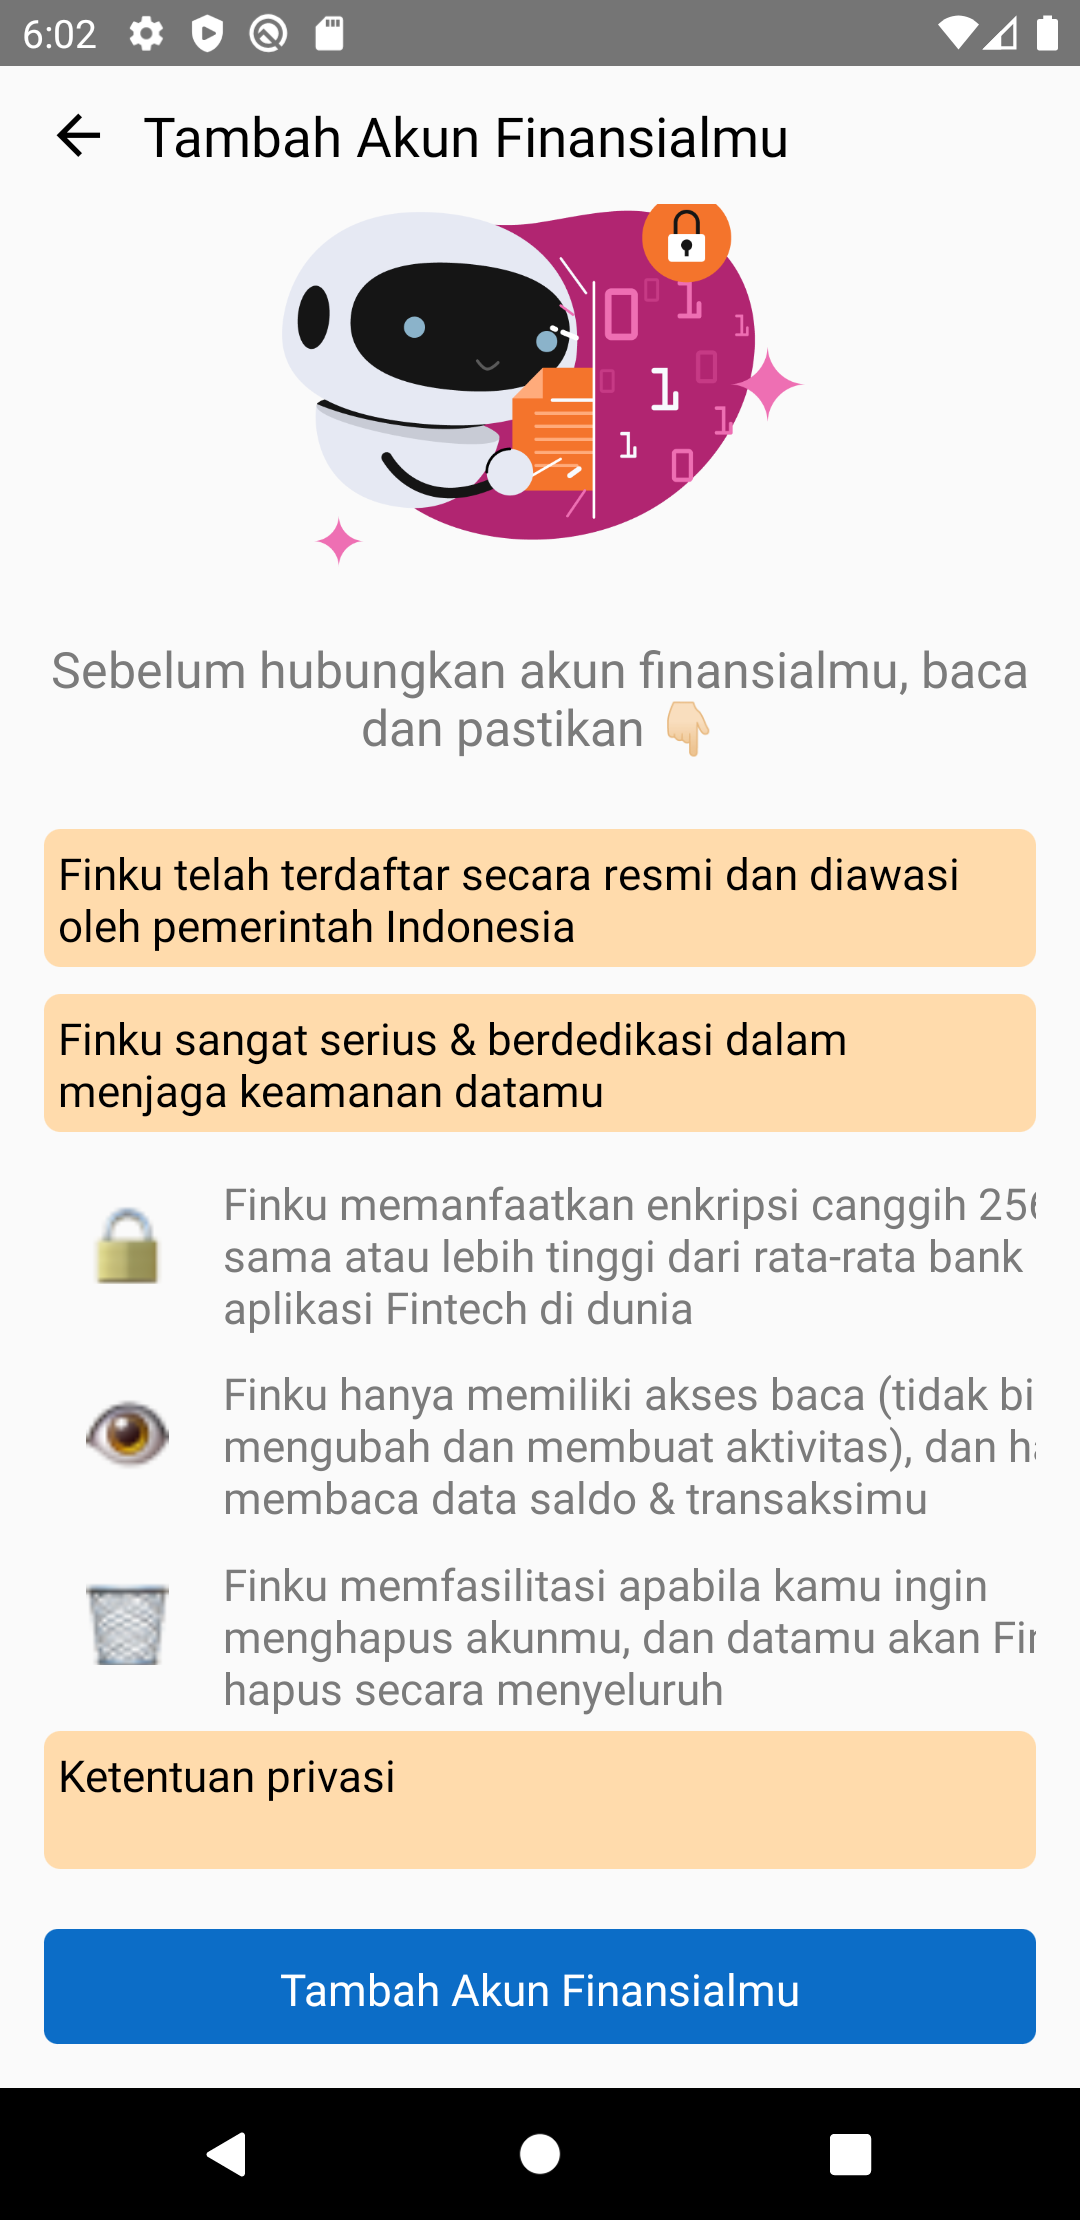
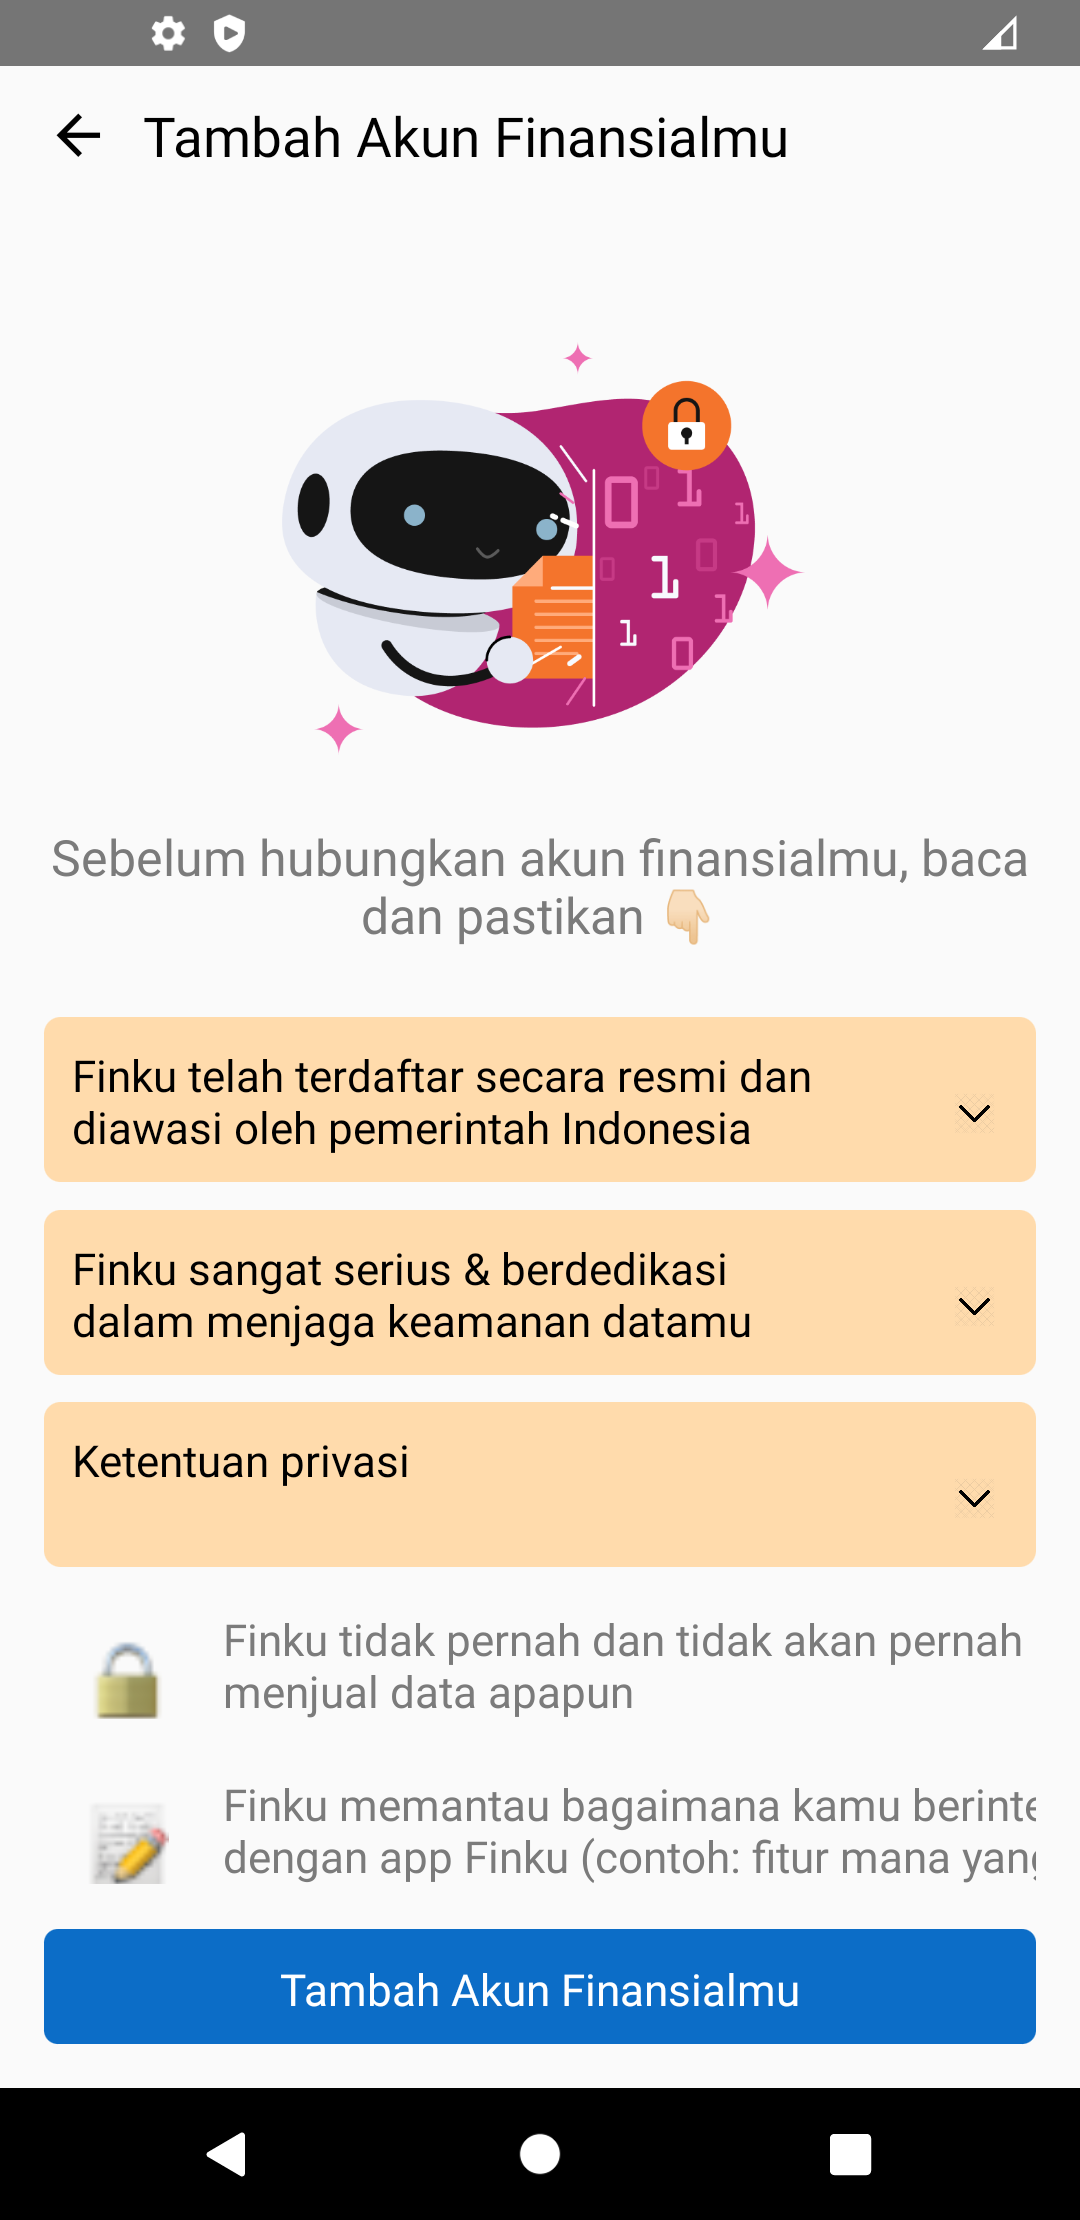
add accordion arrow

diff --git a/App.js b/App.js
@@ -19,6 +19,7 @@ import {
   Button,
   TouchableHighlight,
   Image,
+  Dimensions
 } from 'react-native';
 
 import Accordion from 'react-native-collapsible/Accordion';
@@ -31,15 +32,15 @@ const SECTIONS = [
     content: [
       {
         info: 'Finku terdaftar di bawah KOMINFO yang memiliki SOP & pengaturan keamanan data yang ketat',
-        image: require('./src/img/1.png')
+        image: require('./src/img/1.png'),
       },
       {
         info: 'Finku sudah secara resmi terdaftar sebagai PT',
-        image: require('./src/img/2.png')
+        image: require('./src/img/2.png'),
       },
       {
         info: 'Finku dikembangkan oleh tim dari Indonesia yang sudah mempelajari berbagai regulasi terkait keamanan data & privasi',
-        image: require('./src/img/3.png')
+        image: require('./src/img/3.png'),
       },
     ],
   },
@@ -48,15 +49,15 @@ const SECTIONS = [
     content: [
       {
         info: 'Finku memanfaatkan enkripsi canggih 256-AES, sama atau lebih tinggi dari rata-rata bank dan aplikasi Fintech di dunia',
-        image: require('./src/img/4.png')
+        image: require('./src/img/4.png'),
       },
       {
         info: 'Finku hanya memiliki akses baca (tidak bisa mengubah dan membuat aktivitas), dan hanya membaca data saldo & transaksimu',
-        image: require('./src/img/5.png')
+        image: require('./src/img/5.png'),
       },
       {
         info: 'Finku memfasilitasi apabila kamu ingin menghapus akunmu, dan datamu akan Finku hapus secara menyeluruh',
-        image: require('./src/img/6.png')
+        image: require('./src/img/6.png'),
       },
     ],
   },
@@ -65,20 +66,20 @@ const SECTIONS = [
     content: [
       {
         info: 'Finku tidak pernah dan tidak akan pernah menjual data apapun',
-        image: require('./src/img/7.png')
+        image: require('./src/img/7.png'),
       },
       {
         info: 'Finku memantau bagaimana kamu berinteraksi dengan app Finku (contoh: fitur mana yang kamu pakai dan tidak) untuk keperluan evaluasi & meningkatkan kepuasan kamu',
-        image: require('./src/img/8.png')
+        image: require('./src/img/8.png'),
       },
       {
         info: 'Finku tidak pernah dan tidak akan pernah memberikan datamu ke perusahaan manapun tanpa izin kamu',
-        image: require('./src/img/9.png')
+        image: require('./src/img/9.png'),
       },
       {
         info: 'Selengkapnya tentang ketentuan privasi Finku (“we” or “us” or “our”) respects the privacy of our users (“user” or “you”). This Privacy Policy explains how we collect, use, disclose, and safeguard your information when you visit our website [name of website.com] [and our mobile application], including any other media form, media channel, mobile website, or mobile application related or connected thereto (collectively, the “Site”). Please read this privacy policy carefully. If you do not agree with the terms of this privacy policy, please do not access the site. We reserve the right to make changes to this Privacy Policy at any time and for any reason. We will alert you about any changes by updating the “Last Updated” date of this Privacy Policy. Any changes or modifications will be effective immediately upon posting the updated Privacy Policy on the Site, and you waive the right to receive specific notice of each such change or modification. You are encouraged to periodically review this Privacy Policy to stay informed of updates. You will be deemed to have been made aware of, will be subject to, and will be deemed to have accepted the changes in any revised Privacy Policy by your continued use of the Site after the date such revised Privacy Policy is posted. We may collect information about you in a variety of ways. The information we may collect on the Site includes: Personal Data: Personally identifiable information, such as your name, shipping address, email address, and telephone number, and demographic information, such as your age, gender, hometown, and interests, that you voluntarily give to us [when you register with the Site [or our mobile application,] or] when you choose to participate in various activities related to the Site [and our mobile application], such as online chat and message boards and subscription to newsletters and promotional emails. You are under no obligation to provide us with personal information of any kind, however your refusal to do so may prevent you from using certain features of the Site [and our mobile application]. Derivative Data: Information our servers automatically collect when you access the Site, such as your IP address, your browser type, your operating system, your access times, and the pages you have viewed directly before and after accessing the Site. [If you are using our mobile application, this information may also include your device name and type, your operating system, your phone number, your country, your likes and replies to a post, and other interactions with the application and other users via server log files, as well as any other information you choose to provide.] Mobile Device Data: Device information, such as your mobile device ID, model, and manufacturer, and information about the location of your device, if you access the Site from a mobile device. Data From Contests, Giveaways, and Surveys: Personal and other information you may provide when entering contests or giveaways and/or responding to surveys. Having accurate information about you permits us to provide you with a smooth, efficient, and customized experience. Specifically, we may use information collected about you via the Site [or our mobile application] to: Administer sweepstakes, promotions, and contests. Compile anonymous statistical data and analysis for use internally or with third parties. Create and manage your account. Deliver targeted advertising, coupons, newsletters, and other information regarding promotions and the Site [and our mobile application] to you. Email you regarding your account or order. Enable user-to-user communications. Generate a personal profile about you to make future visits to the Site [and our mobile application] more personalized. Increase the efficiency and operation of the Site [and our mobile application]. Monitor and analyze usage and trends to improve your experience with the Site [and our mobile application]. Notify you of updates to the Site [and our mobile application]. Offer new products, services, [mobile applications,] and/or recommendations to you. Perform other business activities as needed. Prevent fraudulent transactions, monitor against theft, and protect against criminal activity. Request feedback and contact you about your use of the Site [and our mobile application]. Resolve disputes and troubleshoot problems. Respond to product and customer service requests. Send you a newsletter. Solicit support for the Site [and our mobile application]. We may share information we have collected about you in certain situations. Your information may be disclosed as follows: By Law or to Protect Rights: If we believe the release of information about you is necessary to respond to legal process, to investigate or remedy potential violations of our policies, or to protect the rights, property, and safety of others, we may share your information as permitted or required by any applicable law, rule, or regulation. This includes exchanging information with other entities for fraud protection and credit risk reduction. Third-Party Service Providers: We may share your information with third parties that perform services for us or on our behalf, including payment processing, data analysis, email delivery, hosting services, customer service, and marketing assistance. Marketing Communications: With your consent, or with an opportunity for you to withdraw consent, we may share your information with third parties for marketing purposes, as permitted by law. Interactions with Other Users: If you interact with other users of the Site [and our mobile application], those users may see your name, profile photo, and descriptions of your activity, including sending invitations to other users, chatting with other users, liking posts, following blogs. Online Posting: When you post comments, contributions or other content to the Site [or our mobile applications], your posts may be viewed by all users and may be publicly distributed outside the Site [and our mobile application] in perpetuity. Third-Party Advertisers: We may use third-party advertising companies to serve ads when you visit the Site [or our mobile application]. These companies may use information about your visits to the Site [and our mobile application] and other websites that are contained in web cookies in order to provide advertisements about goods and services of interest to you. Affiliates: We may share your information with our affiliates, in which case we will require those affiliates to honor this Privacy Policy. Affiliates include our parent company and any subsidiaries, joint venture partners or other companies that we control or that are under common control with us. Business Partners: We may share your information with our business partners to offer you certain products, services or promotions. Cookies and Web Beacons: We may use cookies, web beacons, tracking pixels, and other tracking technologies on the Site [and our mobile application] to help customize the Site [and our mobile application] and improve your experience. When you access the Site [or our mobile application], your personal information is not collected through the use of tracking technology. Most browsers are set to accept cookies by default. You can remove or reject cookies, but be aware that such action could affect the availability and functionality of the Site [or our mobile application]. You may not decline web beacons. However, they can be rendered ineffective by declining all cookies or by modifying your web browser’s settings to notify you each time a cookie is tendered, permitting you to accept or decline cookies on an individual basis. Internet-Based Advertising: Additionally, we may use third-party software to serve ads on the Site [and our mobile application], implement email marketing campaigns, and manage other interactive marketing initiatives. This third-party software may use cookies or similar tracking technology to help manage and optimize your online experience with us. For more information about opting-out of interest-based ads, visit the Network Advertising Initiative Opt-Out Tool or Digital Advertising Alliance Opt-Out Tool. Website and Email Analytics: We may also partner with selected third-party vendors, such as Google Analytics others, to allow tracking technologies and remarketing services on the Site [and our mobile application] through the use of first party cookies and third-party cookies, to, among other things, analyze and track users’ use of the Site [and our mobile application] , determine the popularity of certain content and better understand online activity. By accessing the Site[,our mobile application,], you consent to the collection and use of your information by these third-party vendors. You are encouraged to review their privacy policy and contact them directly for responses to your questions. We do not transfer personal information to these third-party vendors. However, if you do not want any information to be collected and used by tracking technologies, you can visit the third-party vendor or the Network Advertising Initiative Opt-Out Tool or Digital Advertising Alliance Opt-Out Tool.',
-        image: require('./src/img/10.png')
-      }
+        image: require('./src/img/10.png'),
+      },
       // {
       //   child: {
       //     info: 'Finku (“we” or “us” or “our”) respects the privacy of our users (“user” or “you”). This Privacy Policy explains how we collect, use, disclose, and safeguard your information when you visit our website [name of website.com] [and our mobile application], including any other media form, media channel, mobile website, or mobile application related or connected thereto (collectively, the “Site”). Please read this privacy policy carefully. If you do not agree with the terms of this privacy policy, please do not access the site. We reserve the right to make changes to this Privacy Policy at any time and for any reason. We will alert you about any changes by updating the “Last Updated” date of this Privacy Policy. Any changes or modifications will be effective immediately upon posting the updated Privacy Policy on the Site, and you waive the right to receive specific notice of each such change or modification. You are encouraged to periodically review this Privacy Policy to stay informed of updates. You will be deemed to have been made aware of, will be subject to, and will be deemed to have accepted the changes in any revised Privacy Policy by your continued use of the Site after the date such revised Privacy Policy is posted.',
@@ -102,11 +103,30 @@ const App = () => {
           marginBottom: 10,
           backgroundColor: '#FFDBAC',
           borderRadius: 6,
-          height: 50,
+          height: 60,
         }}>
-        <Text style={{fontSize: 16, margin: 5, fontWeight: '600'}}>
-          {section.title}
-        </Text>
+        <View
+          style={{
+            flexDirection: 'row',
+            flex: 1,
+            justifyContent: 'space-between',
+            margin: 5,
+            height: 60,
+            width: Dimensions.get('window').width - 42
+          }}>
+          <Text style={{fontSize: 16, margin: 5, fontWeight: '600', width: (Dimensions.get('window').width-42)*0.8}}>
+            {section.title}
+          </Text>
+          <View style={{marginTop: 45/2, marginRight: 10}}>
+          <Image
+            style={{
+              height: 15,
+              width: 15,
+            }}
+            source={require('./src/img/arrow.png')}
+          />
+          </View>
+        </View>
       </View>
     );
   };
@@ -133,7 +153,8 @@ const App = () => {
                 />
               </View>
               <View style={{marginLeft: 10}}>
-                <Text style={{fontSize: 16, fontWeight: '600', color: '#7B7B7B'}}>
+                <Text
+                  style={{fontSize: 16, fontWeight: '600', color: '#7B7B7B'}}>
                   {val.info}
                 </Text>
               </View>
@@ -143,7 +164,7 @@ const App = () => {
                  </View>
                )} */}
             </View>
-          )
+          );
         })}
       </View>
     );
@@ -155,7 +176,7 @@ const App = () => {
     <View style={{flex: 1}}>
       <Appbar.Header
         style={{height: 50, color: '#FFFFFF', backgroundColor: 'transparent'}}>
-       <Appbar.BackAction onPress={()=>{}} />
+        <Appbar.BackAction onPress={() => {}} />
         <Text style={{fontSize: 20}}>Tambah Akun Finansialmu</Text>
       </Appbar.Header>
       <ScrollView>
